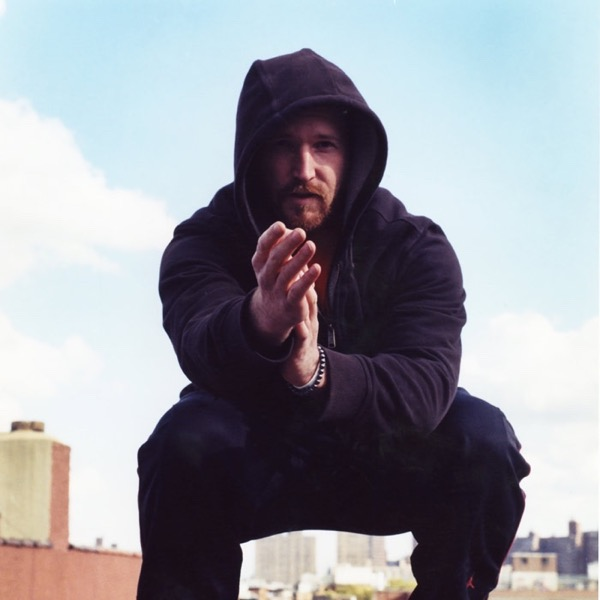
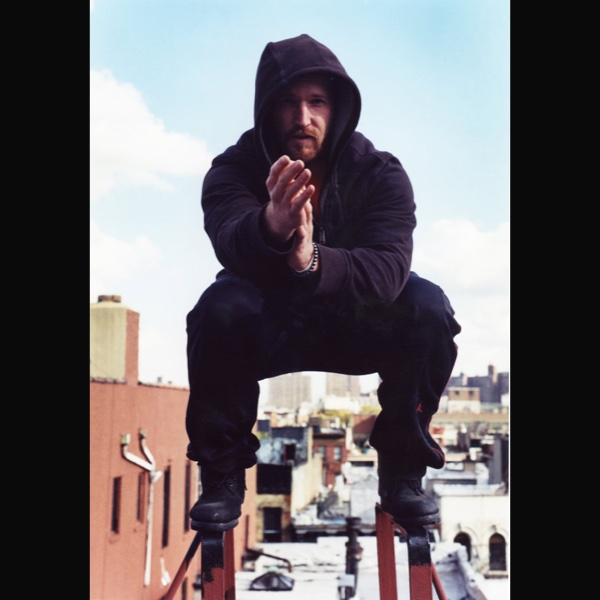
serve the October deck at the root; password is drop2026
deck.francces.co now opens the October deck directly. The original
stacked deck moves to /olddeck rather than being deleted, and
/octobermockup still resolves so any link already shared keeps working.

Person pages move up with it: /jesse-lavercombe rather than
/octobermockup/jesse-lavercombe, with the old form still handled. At
the root an unknown path falls through to the deck; under
/octobermockup/ an unknown slug keeps its found-nothing page. Colorway
prefixes still work throughout.

The gate takes drop2026 only. JandC456 and frank no longer open it.

Brian's card is letterboxed rather than cropped. His figure runs 925px
tall in a 700px-wide file, so no square crop could reach his boots —
zooming out could not fix it because the square was already the full
width. The whole frame now sits on the ink background, which costs the
head alignment he had but keeps him entire.

diff --git a/src/App.jsx b/src/App.jsx
@@ -4,7 +4,14 @@ import Footer from './components/Footer'
 import Gate, { isUnlocked } from './components/Gate'
 import GalleryPage from './pages/GalleryPage'
 import AnimationPage from './pages/AnimationPage'
-import { isGalleryPage, isAnimationPage, isOctoberMockup, personSlug } from './colorways'
+import {
+  isGalleryPage,
+  isAnimationPage,
+  isOldDeck,
+  isLegacyMockupPath,
+  personSlug,
+} from './colorways'
+import { personBySlug } from './content/octobermockup'
 import Home from './pages/Home'
 import About from './pages/About'
 import Partners from './pages/Partners'
@@ -17,13 +24,8 @@ import Documentaries from './pages/Documentaries'
 import OctoberMockup from './pages/OctoberMockup'
 import MockPerson from './pages/MockPerson'
 
-export default function App() {
-  const [unlocked, setUnlocked] = useState(isUnlocked)
-  if (!unlocked) return <Gate onUnlock={() => setUnlocked(true)} />
-  if (isOctoberMockup)
-    return personSlug ? <MockPerson slug={personSlug} /> : <OctoberMockup />
-  if (isAnimationPage) return <AnimationPage />
-  if (isGalleryPage) return <GalleryPage />
+// The original stacked deck, kept at /olddeck now that October is the root.
+function OldDeck() {
   return (
     <div className="flex min-h-screen flex-col bg-ink">
       <Nav />
@@ -59,4 +61,19 @@ export default function App() {
       <Footer />
     </div>
   )
+}
+
+export default function App() {
+  const [unlocked, setUnlocked] = useState(isUnlocked)
+  if (!unlocked) return <Gate onUnlock={() => setUnlocked(true)} />
+  if (isAnimationPage) return <AnimationPage />
+  if (isGalleryPage) return <GalleryPage />
+  if (isOldDeck) return <OldDeck />
+  // At the root only a real slug opens a person page, so an unknown path still
+  // lands on the deck. Under /octobermockup/ an unknown slug keeps its
+  // found-nothing page.
+  if (personSlug && (isLegacyMockupPath || personBySlug(personSlug))) {
+    return <MockPerson slug={personSlug} />
+  }
+  return <OctoberMockup />
 }

diff --git a/src/colorways.js b/src/colorways.js
@@ -1,5 +1,5 @@
 // Temporary colorway previews: /lavender, /emerald, /crimson, /ocean serve the
-// same one-page deck with a different accent color and matching drop.
+// same deck with a different accent color and matching drop.
 export const colorways = {
   default: { accent: '#f5b942', logo: '/logo-gold.png' },
   lavender: { accent: '#b892e0', logo: '/logo-lavender.png' },
@@ -8,14 +8,22 @@ export const colorways = {
   ocean: { accent: '#6aa7d8', logo: '/logo-ocean.png' },
 }
 
-const segs = window.location.pathname.split('/').filter(Boolean)
-const cwSeg = colorways[segs[0]] ? segs[0] : null
+const raw = window.location.pathname.split('/').filter(Boolean)
+const cwSeg = colorways[raw[0]] ? raw[0] : null
 export const colorway = cwSeg ? colorways[cwSeg] : colorways.default
 // path prefix that preserves the active colorway (e.g. '/lavender')
 export const prefix = cwSeg ? `/${cwSeg}` : ''
+
+// Path segments with any colorway stripped off the front.
+const segs = cwSeg ? raw.slice(1) : raw
+
 export const isGalleryPage = segs.includes('gallery')
 export const isAnimationPage = segs.includes('animation')
+// The October deck is now the site root. The original stacked deck lives on
+// at /olddeck, and /octobermockup still resolves so shared links keep working.
+export const isOldDeck = segs.includes('olddeck')
+
 const octIdx = segs.indexOf('octobermockup')
-export const isOctoberMockup = octIdx !== -1
-// /octobermockup/<slug> serves one person's page instead of the full mockup.
-export const personSlug = octIdx === -1 ? null : (segs[octIdx + 1] ?? null)
+export const isLegacyMockupPath = octIdx !== -1
+// A person page is /<slug> at the root, or /octobermockup/<slug> as before.
+export const personSlug = octIdx !== -1 ? (segs[octIdx + 1] ?? null) : (segs[0] ?? null)

diff --git a/src/pages/OctoberMockup.jsx b/src/pages/OctoberMockup.jsx
@@ -4,13 +4,13 @@ import Panel from '../components/mock/Panel'
 import MockNav from '../components/mock/MockNav'
 import PersonCard from '../components/mock/PersonCard'
 import { Media } from './Documentaries'
-import { colorway, prefix } from '../colorways'
+import { colorway } from '../colorways'
 import { site } from '../content/site'
 import { mock, history } from '../content/octobermockup'
 
 // History, documentaries and the executive summary come from site.js because
 // the October document reproduces them unchanged. Everything else comes from
-// octobermockup.js, which deliberately diverges from the live deck at /.
+// octobermockup.js, which deliberately diverges from the old deck at /olddeck.
 const { brand, home, about, documentaries, executiveSummary, footer } = site
 
 function Eyebrow({ children }) {
@@ -37,7 +37,7 @@ function Bullets({ items }) {
 export default function OctoberMockup() {
   return (
     <div className="min-h-screen bg-ink">
-      <MockNav backHref={`${prefix}/`} backLabel="← Current deck" />
+      <MockNav />
 
       {/* Hero — full-bleed montage, logo overlaid */}
       <section className="relative flex min-h-[85vh] items-center justify-center overflow-hidden border-b border-edge">

diff --git a/src/components/mock/MockNav.jsx b/src/components/mock/MockNav.jsx
@@ -6,18 +6,20 @@ export default function MockNav({ backHref, backLabel }) {
   return (
     <header className="sticky top-0 z-50 border-b border-edge bg-ink/90 backdrop-blur">
       <nav className="mx-auto flex h-16 max-w-6xl items-center justify-between px-4 sm:px-6">
-        <a href={`${prefix}/octobermockup`} className="flex shrink-0 items-center gap-2">
+        <a href={`${prefix}/`} className="flex shrink-0 items-center gap-2">
           <img src={colorway.logo} alt="" className="h-7 w-auto" />
           <span className="whitespace-nowrap font-display text-lg uppercase tracking-widest text-white sm:text-xl">
             {site.brand.name}
           </span>
         </a>
-        <a
-          href={backHref}
-          className="text-sm tracking-wide text-neutral-300 transition-colors hover:text-accent"
-        >
-          {backLabel}
-        </a>
+        {backHref && (
+          <a
+            href={backHref}
+            className="text-sm tracking-wide text-neutral-300 transition-colors hover:text-accent"
+          >
+            {backLabel}
+          </a>
+        )}
       </nav>
     </header>
   )

diff --git a/src/pages/MockPerson.jsx b/src/pages/MockPerson.jsx
@@ -3,7 +3,7 @@ import { prefix } from '../colorways'
 import { site } from '../content/site'
 import { personBySlug, groupSiblings, slugify } from '../content/octobermockup'
 
-const peopleHref = `${prefix}/octobermockup#people`
+const peopleHref = `${prefix}/#people`
 
 function Chrome({ children }) {
   return (
@@ -105,7 +105,7 @@ export default function MockPerson({ slug }) {
               {siblings.map((s) => (
                 <li key={s.slug} className="border-t border-edge pt-4">
                   <a
-                    href={`${prefix}/octobermockup/${slugify(s.name)}`}
+                    href={`${prefix}/${slugify(s.name)}`}
                     className="group block"
                   >
                     <span className="text-sm text-white transition-colors group-hover:text-accent">

diff --git a/src/content/octobermockup.js b/src/content/octobermockup.js
@@ -1,6 +1,6 @@
 // Content for the October mockup (/octobermockup): the October language
 // document, as amended by the Oct 20 Jesse + Brian deck notes.
-// The main deck at / still renders site.js, so copy here deliberately
+// The old deck at /olddeck still renders site.js, so copy here deliberately
 // diverges from it; do not "sync" the two.
 // Pulled from site.js unchanged, because the document reproduces them
 // verbatim: the history timeline, the documentaries, the executive summary.

diff --git a/src/components/mock/PersonCard.jsx b/src/components/mock/PersonCard.jsx
@@ -8,7 +8,7 @@ export default function PersonCard({ person }) {
   // Square crop framed so every face sits at the same height across the grid.
   const src = person.cardPhoto ?? person.photo
   return (
-    <a href={`${prefix}/octobermockup/${slugify(person.name)}`} className="group block">
+    <a href={`${prefix}/${slugify(person.name)}`} className="group block">
       {src ? (
         <img
           src={src}

diff --git a/src/components/Gate.jsx b/src/components/Gate.jsx
@@ -2,7 +2,7 @@ import { useState } from 'react'
 import { colorway } from './../colorways'
 
 const KEY = 'tostd-gate'
-const PASSWORDS = ['JandC456', 'frank']
+const PASSWORDS = ['drop2026']
 
 export function isUnlocked() {
   try {
